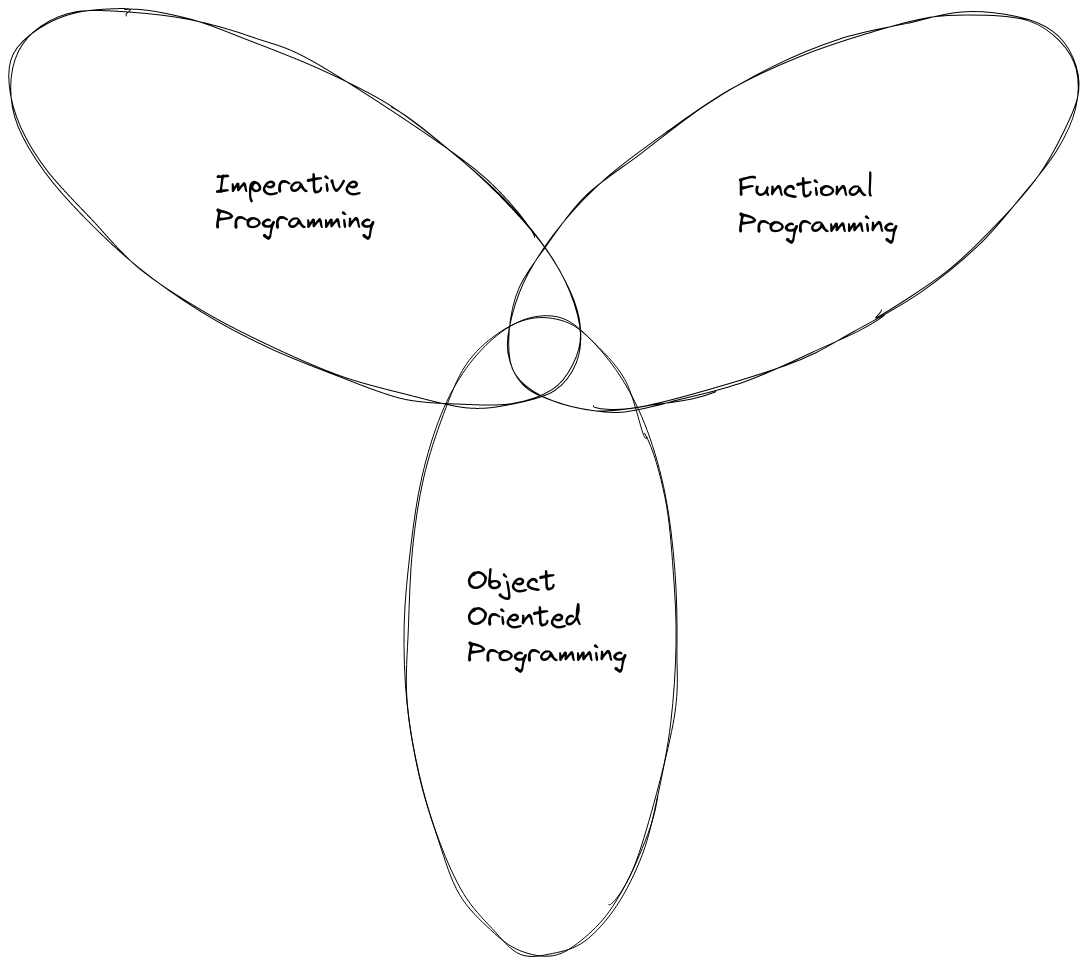
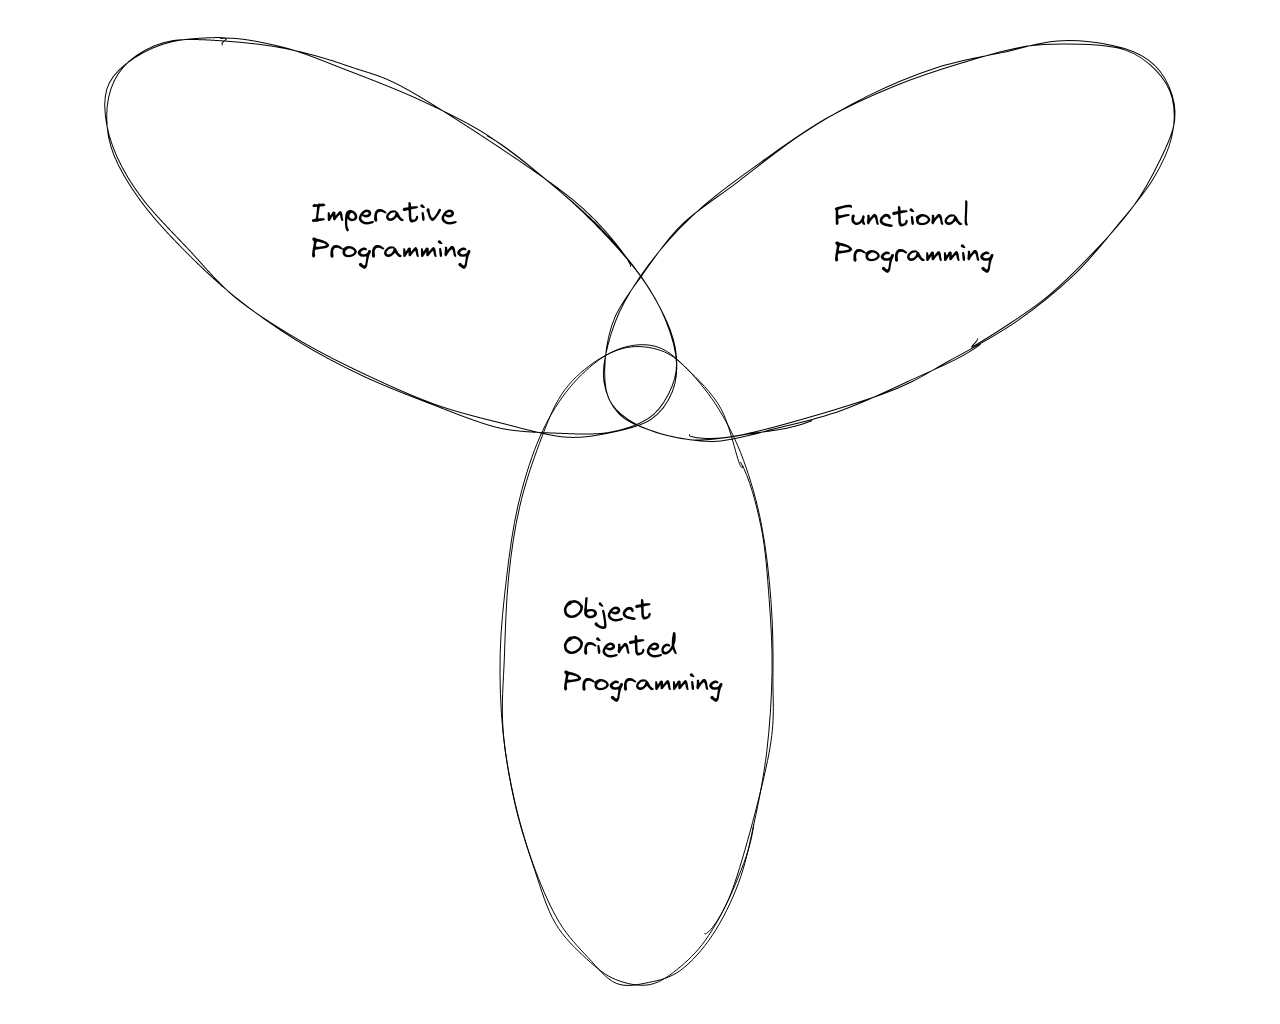
History: Update.

diff --git a/src/session/history/history.tex b/src/session/history/history.tex
@@ -69,8 +69,9 @@
 \end{frame}
 
 {
-    \usebackgroundtemplate{\includegraphics[keepaspectratio=true, width=\paperwidth, height=\paperheight]{src/session/history/resources/venn.png}}
-    \setbeamertemplate{navigation symbols}{}
+    \usebackgroundtemplate{
+        \vbox to \paperheight{\vfil\hbox to \paperwidth{\hfil\includegraphics[keepaspectratio=true, width=\paperwidth, height=\paperheight]{src/session/history/resources/venn.png}\hfil}\vfil}
+    }
     \begin{frame}
 
     \note[item]{
